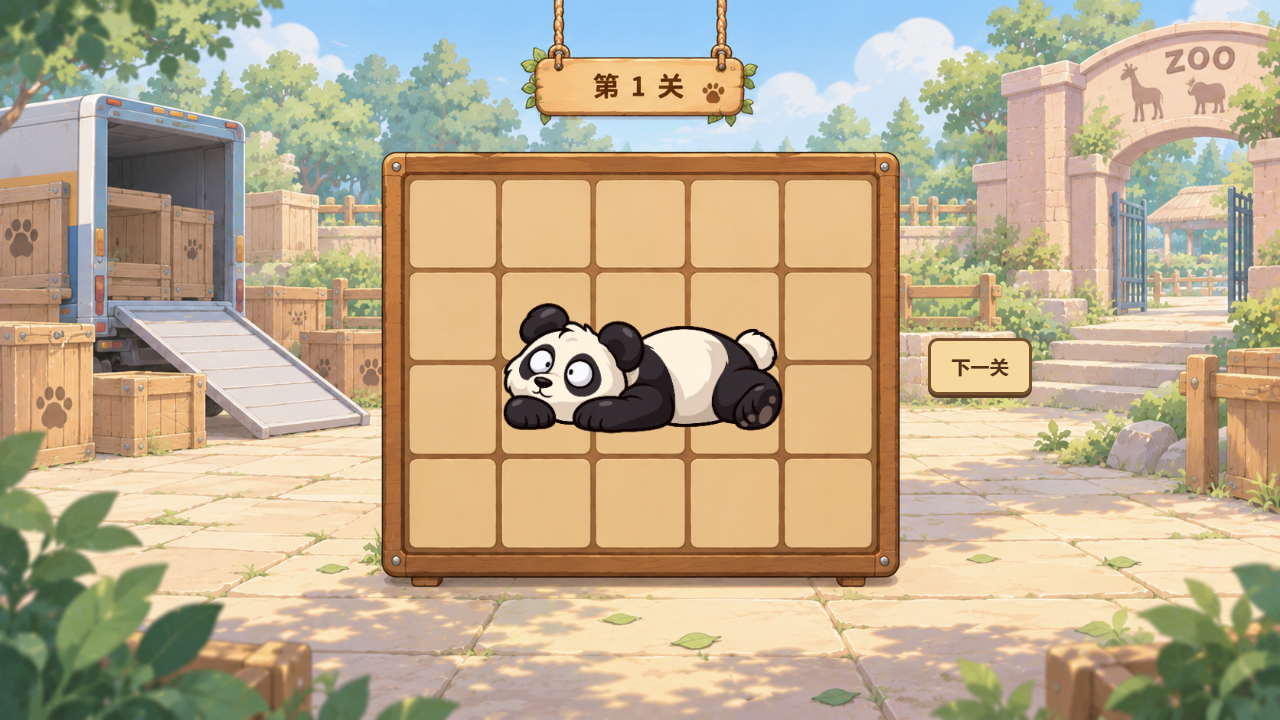
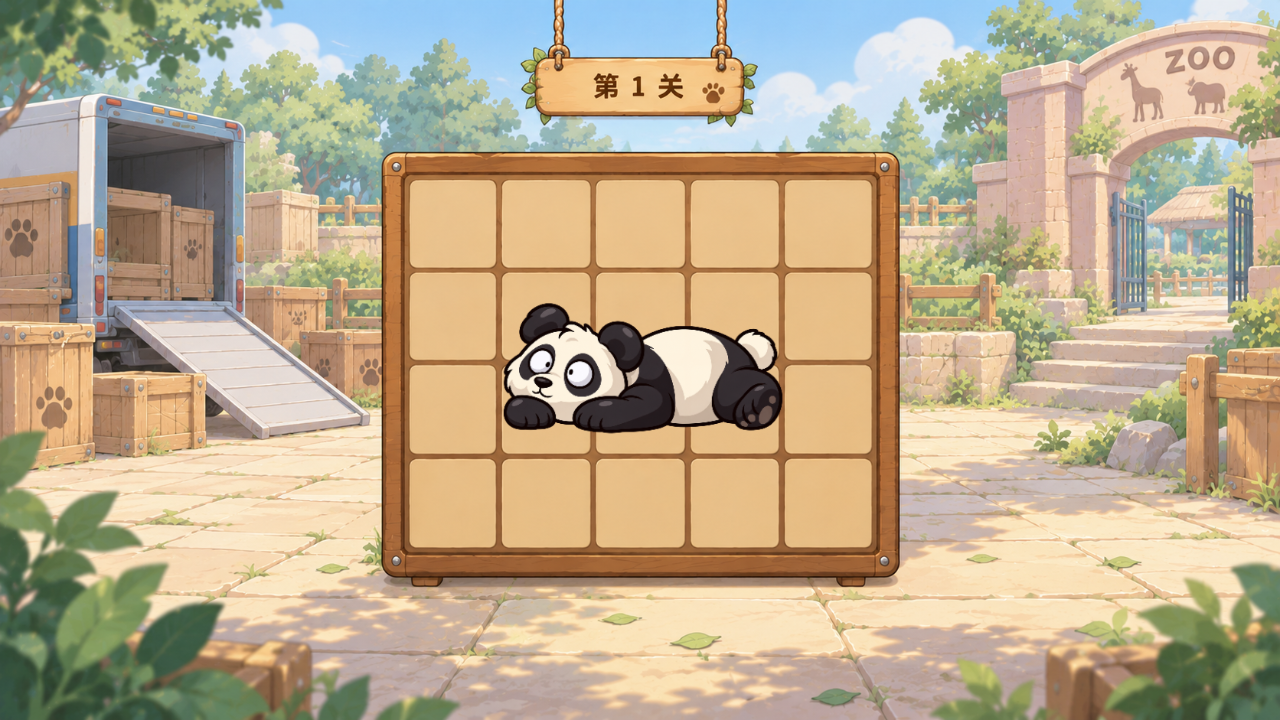
fix: require full board coverage for next-level trigger; record human acceptance

Changed region(s): [[0.7188, 0.4583, 0.8125, 0.55]]

diff --git a/experiments/panda_v2/game.js b/experiments/panda_v2/game.js
@@ -15,7 +15,11 @@ function tray(p){const [w,h]=dims(shape(p));return {x:firstScene.trayCenter.x-w*
 function position(p){return p.at?{x:board.x+p.at[0]*step,y:board.y+p.at[1]*step}:tray(p);}
 function locate(v){for(const p of pieces){const o=position(p);if(shape(p).some(([x,y])=>v.x>=o.x+x*step&&v.x<o.x+x*step+step&&v.y>=o.y+y*step&&v.y<o.y+y*step+step))return p;}return null;}
 function drawPiece(p,x,y){if(!img.naturalWidth)return;const [w,h]=dims(shape(p));ctx.save();ctx.translate(x+w*step/2,y+h*step/2);ctx.rotate(p.rot*Math.PI/2);ctx.drawImage(img,-3*step/2,-2*step/2,3*step,2*step);ctx.restore();}
-function complete(){return !held&&pieces.every(p=>p.at&&legal(p,p.at));}
+function complete(){
+ if(held||!pieces.length||pieces.some(p=>!p.at||!legal(p,p.at)))return false;
+ const occupied=new Set();for(const p of pieces)for(const [x,y] of shape(p))occupied.add((x+p.at[0])+':'+(y+p.at[1]));
+ return occupied.size===board.w*board.h;
+}
 function draw(){ctx.clearRect(0,0,C.width,C.height);if(environment.naturalWidth)ctx.drawImage(environment,0,0,C.width,C.height);for(const p of pieces){if(held?.p===p)continue;const v=position(p);drawPiece(p,v.x,v.y);}if(held)drawPiece(held.p,mouse.x-held.offset.x,mouse.y-held.offset.y);next.hidden=!complete();}
 function release(){const id=held?.pointerId;held=null;if(id!==undefined&&C.hasPointerCapture(id))C.releasePointerCapture(id);}
 function cancel(){if(!held)return;held.p.at=held.origin;held.p.rot=held.originRot;release();draw();}

diff --git a/tasks/FIRST_LEVEL_SCENE_001/ACCEPTANCE.md b/tasks/FIRST_LEVEL_SCENE_001/ACCEPTANCE.md
@@ -1,0 +1,14 @@
+# 第一关用户验收与完成判定修正
+
+HUMAN反馈：“总体来说这一版通过”。批准原因归纳：
+
+1. 指定背景原图完整、等比呈现，构图及场景主体符合用户意图。
+2. 只有当前需要的原背景与完整熊猫，移除了等待入园、额外提示、旋转/重置/关卡操作栏等干扰。
+3. 熊猫是完整的单一操作对象，能够跟随指针拖入并取回，右键整体旋转、R重置。
+4. 聚焦第一关；下一关按钮的棋盘右侧位置已确认，前次出现仅作为按钮测试。
+
+必须纠正：正式下一关触发为所有拼块合法放置且占格并集填满棋盘；不得以单只熊猫入盘判通关。实现已改为验证边界、碰撞和全格覆盖。当前场景只有6格熊猫、背景棋盘20格，因此正常入盘后仍不显示下一关。这是正确状态，不擅自补动物或新关卡。
+
+真实Edge浏览器19项通过，包括部分入盘不完成、隔离合成填充夹具全格覆盖才显示、非法夹具不触发、按钮位置、整体拖回、右键旋转和R重置。合成夹具只存在测试中，不是正式动物/关卡；不进入发布运行数据。旧REPORT.md中的单熊猫触发属于已被本反馈纠正的历史测试说明。
+
+当前验收范围是本关外观与交互，不等于完整发行验收或参考游戏所有细节逐项一致。

diff --git a/AGENTS.md b/AGENTS.md
@@ -24,3 +24,5 @@
 用户明确取消当前完整流程交付，当前入口只做第一关。桌面第一张背景原图作为硬性运行素材完整显示，不再作为临时背景，也不再等待独立分层背景。此指令覆盖前述背景交付例外在本关中的限制。背景原字节存 assets/backgrounds/chapter_one.png。实际占格网格对齐原图5×4棋盘；一只完整熊猫合法放入即本次交互验证成功，并不要求六格熊猫填满20格棋盘。
 
 只显示原背景、完整熊猫及成功后棋盘正右侧的下一关按钮。无额外等待入园、操作提示、旋转/重置栏、开始/章节流程。鼠标左键拖动和取回，右键整体90°旋转，R重置本关；取消及非法落点静默恢复。下一关内容不在本轮范围，按钮仅提供nextlevelrequest事件接口。
+
+验收修正（2026-10-23）：HUMAN总体批准FIRST_LEVEL_SCENE_001外观与交互；此前单熊猫入盘触发下一关只算按钮测试。正式完成必须全部拼块合法落盘且占格并集覆盖全棋盘，无缺格/重叠/越界。当前只有6格熊猫、棋盘20格，正常游玩不会显示下一关；不得为了按钮出现而伪造完成或擅增正式动物。

diff --git a/experiments/panda_v2/README.md b/experiments/panda_v2/README.md
@@ -34,3 +34,5 @@
 ## 当前入口：仅第一关（HUMAN最新要求）
 
 最新交付已替代以上三关UI。双击index.html：完整原背景＋熊猫；左键拖放/取回、右键旋转、R重置。合法放入后才在棋盘右侧显示下一关。本轮不制作第二关。测试改用test-first-scene.cjs，详情tasks/FIRST_LEVEL_SCENE_001/REPORT.md。
+
+用户验收通过后的修正：正式下一关仅在全棋盘被合法填满后显示。当前单熊猫占6/20格，所以放入后不显示按钮；此前入盘即显示只是按钮展示测试，现已移除。参见tasks/FIRST_LEVEL_SCENE_001/ACCEPTANCE.md。
